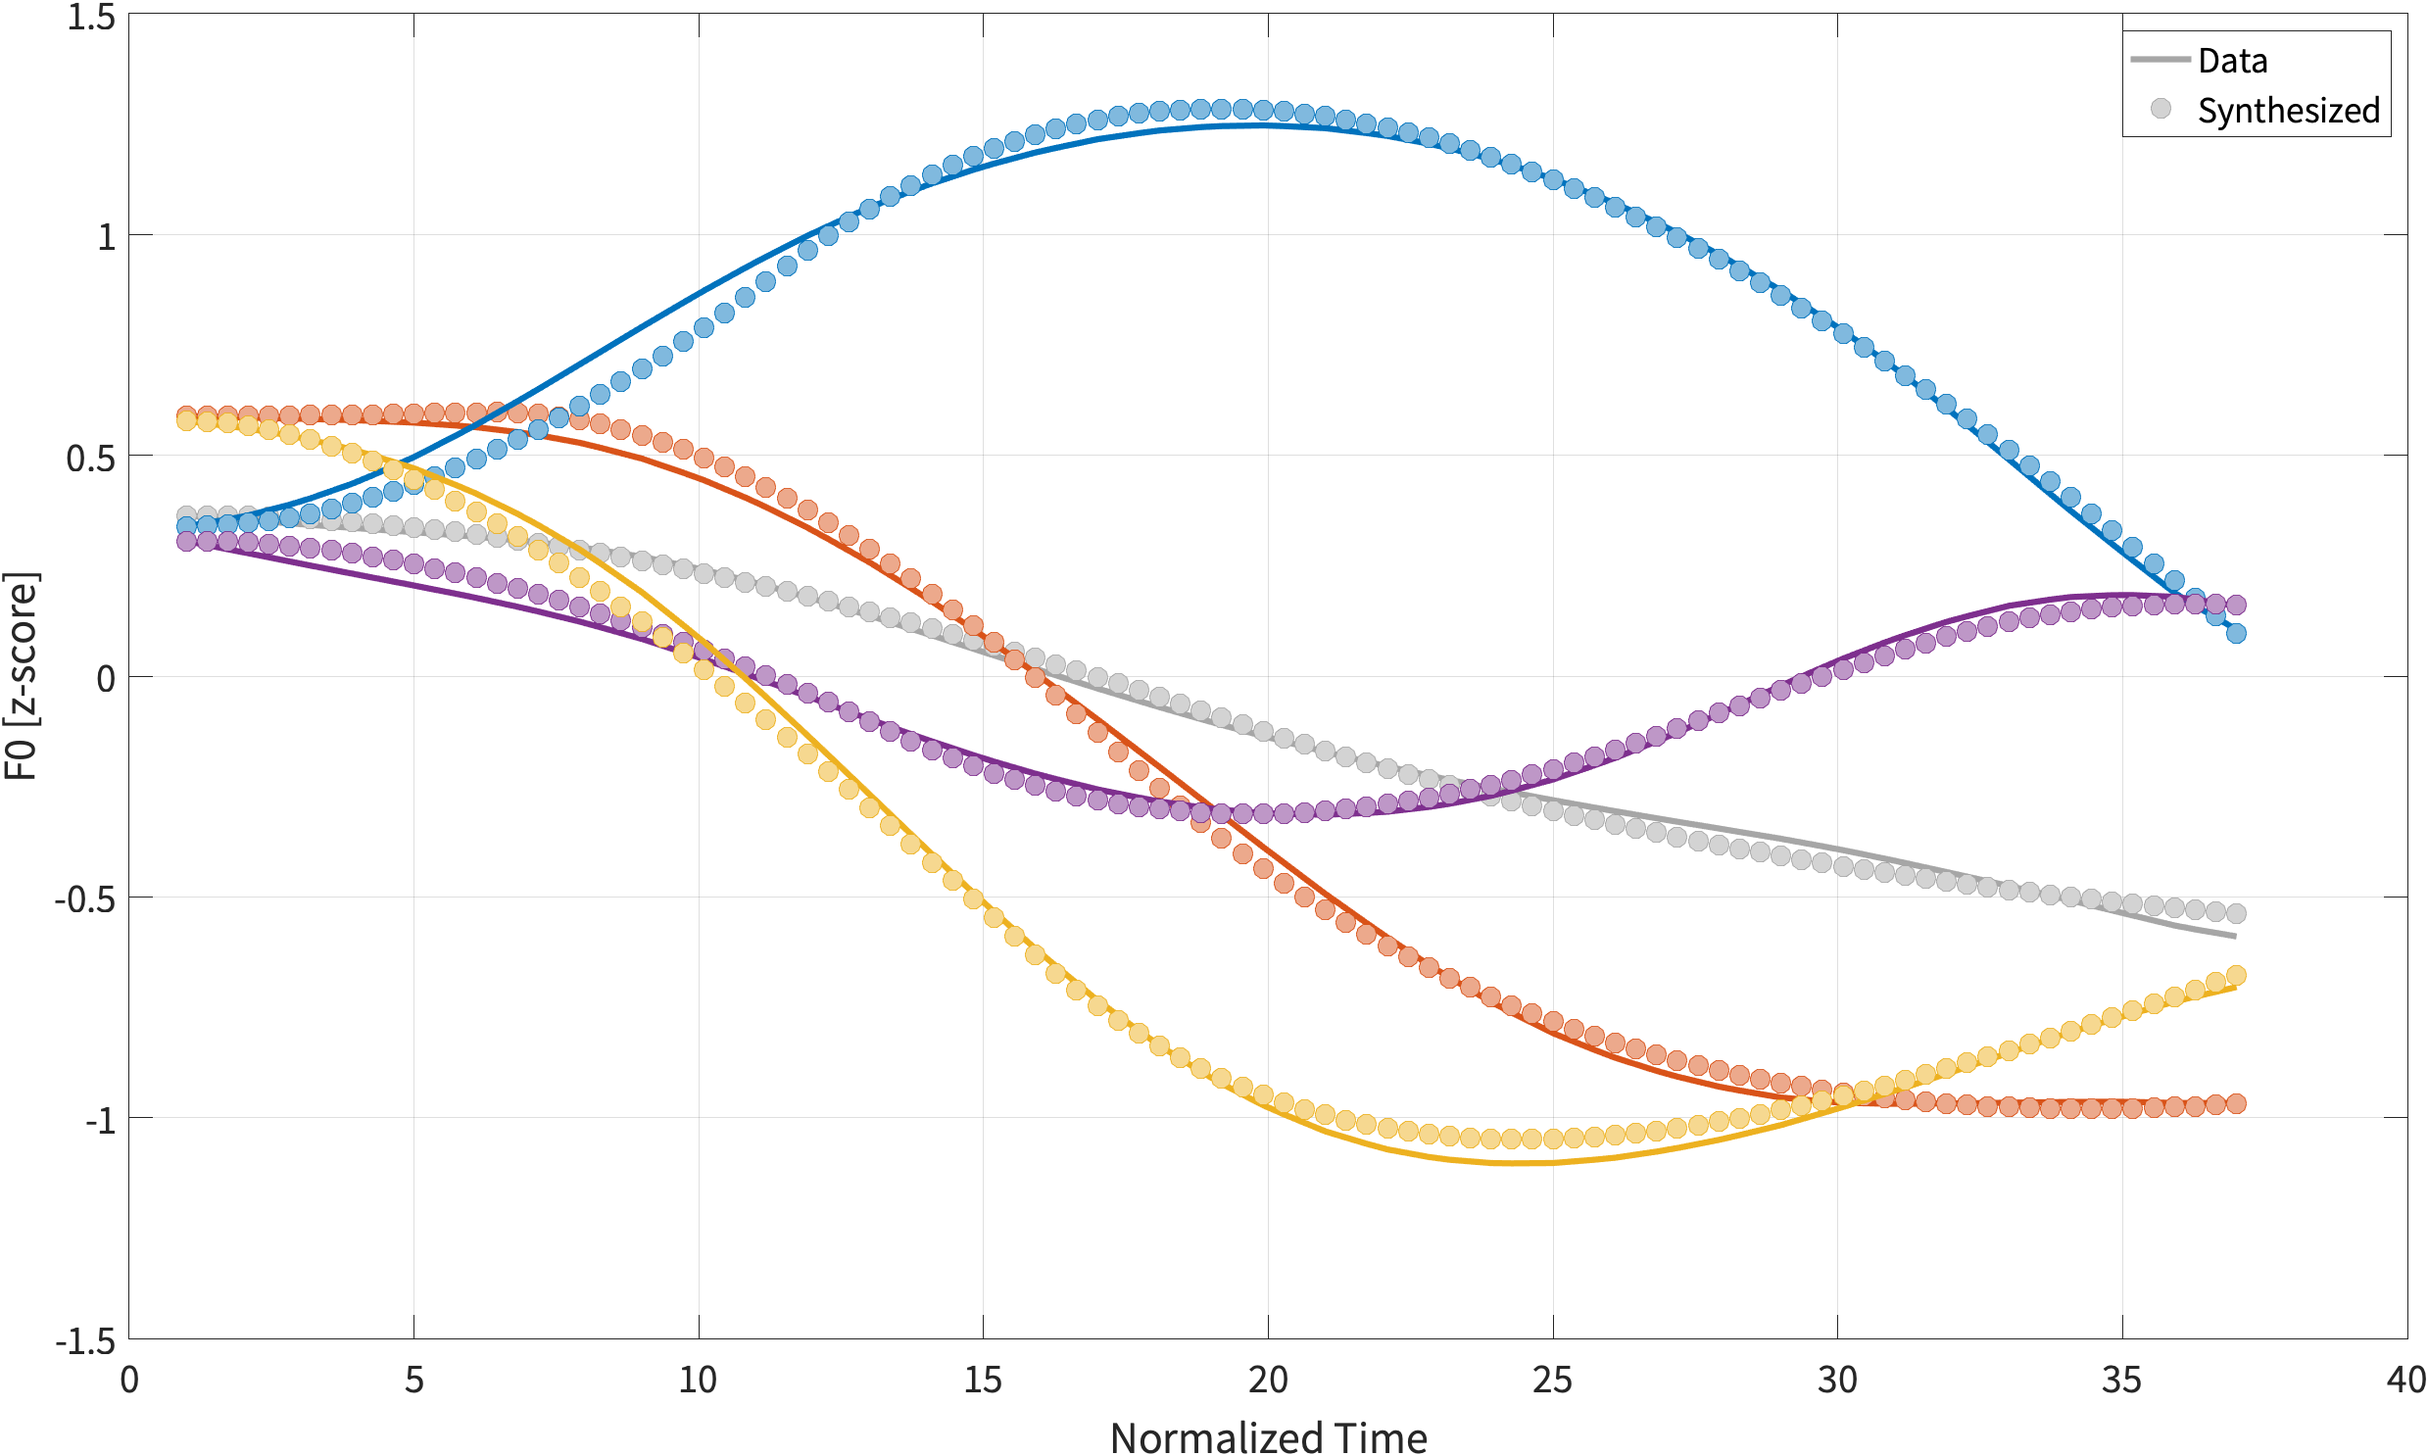
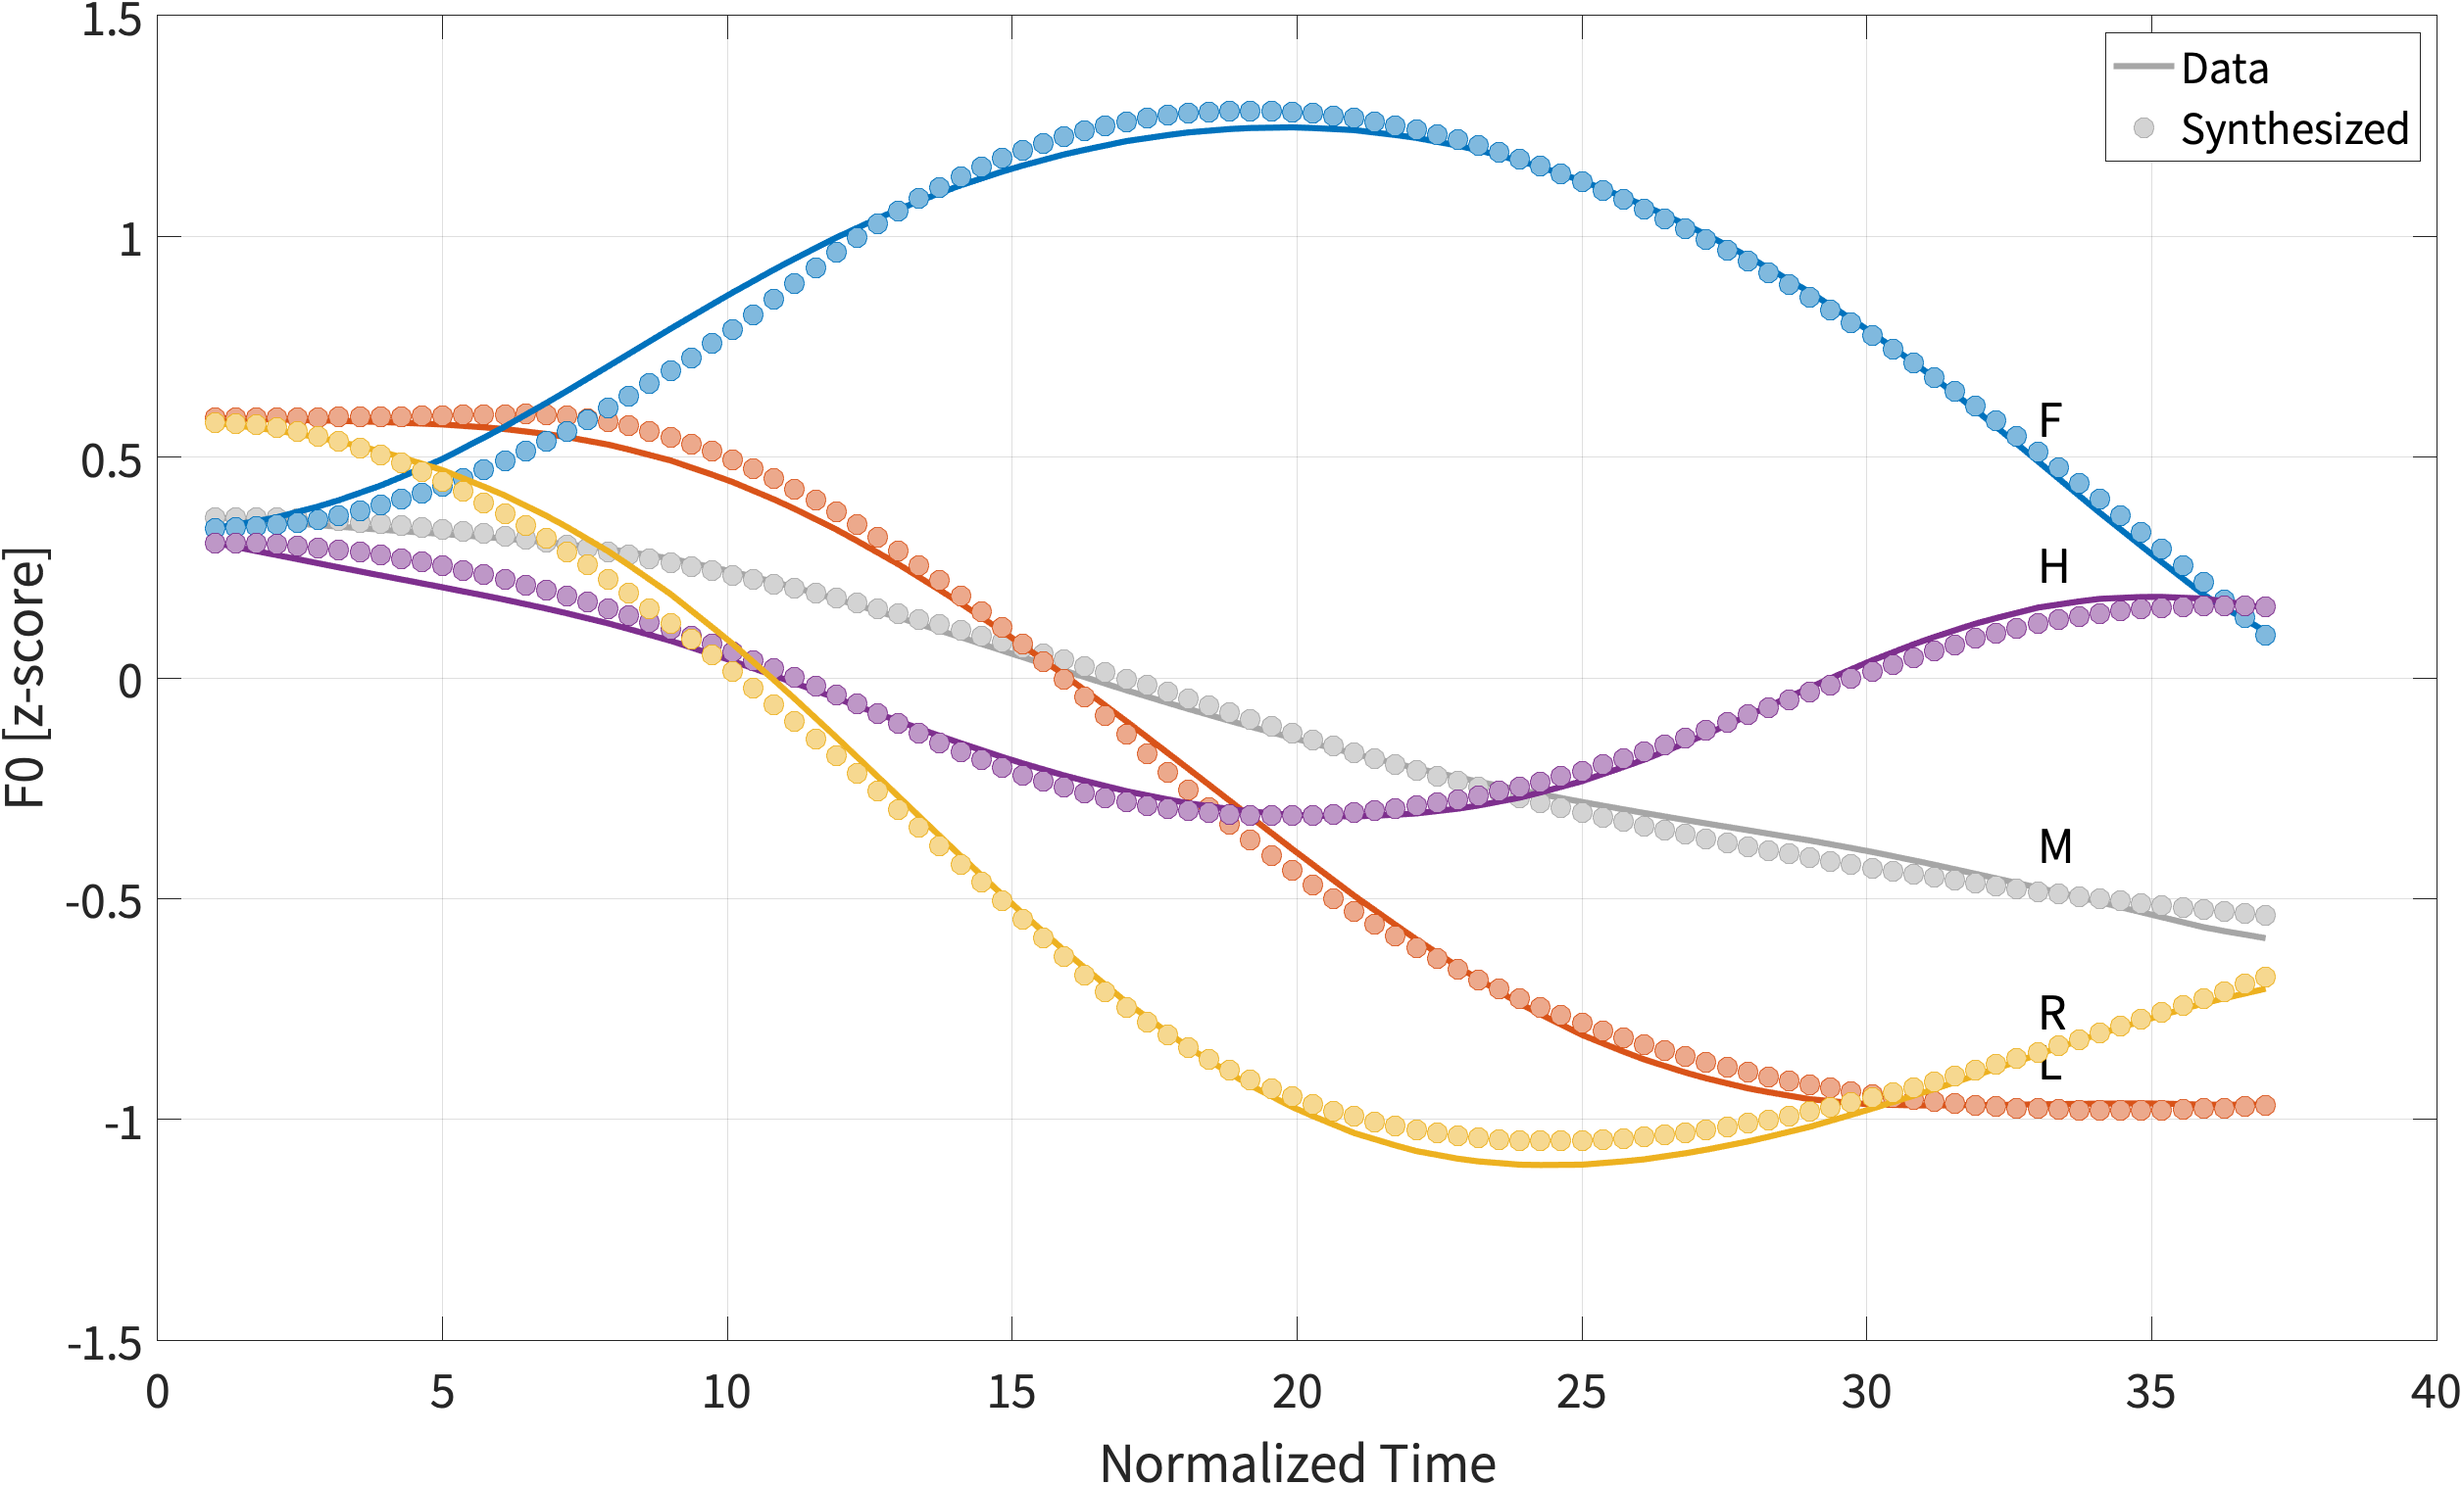
Changed K and T

diff --git a/optimizeTone.m b/optimizeTone.m
@@ -19,7 +19,9 @@ end
 % Change aspect of the plot
 set(gca,"FontName","Assistant","FontSize",40)
 grid on
-legend(["M","L","F","H","R"])
+
+names = ["M","L","F","H","R"];
+legend(names)
 
 close(f)
 %% Code the Task-Dynamic model
@@ -254,8 +256,8 @@ for k = 1 : numel(tonePars)
     plot(t2,groundTruth,"Color",C(toneIx,:),"LineWidth",3); hold on;
     plot(t2,ySol,"o","MarkerEdgeColor",C(toneIx,:),"MarkerFaceColor",C(toneIx,:).*.5+[1 1 1].*.5,...
         "MarkerSize",10)
-    
-    text()
+    ix = round(33/37*100);
+    text(t2(ix),groundTruth(ix)+.1,names(k),"FontSize",25,"FontName","Assistant")
     hold on
 end
 
